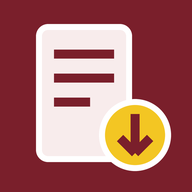
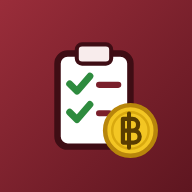
เมนูด้านข้างแบ่งกลุ่ม (สีแดงเลือดหมู) + แถบชื่อหน้า, ไอคอนใหม่ (คลิปบอร์ด+เหรียญ ฿), เปลี่ยนชื่อเมนู, ข้อความท้ายหน้า Developed by Miss Narama Woraklan
Claude-Session: https://claude.ai/code/session_013X8GcPgKu4uhXP4FCWt3wY

diff --git a/index.html b/index.html
@@ -228,6 +228,30 @@ details.rp-x{margin:0 0 10px}details.rp-x>summary{cursor:pointer;color:var(--mut
 .rp-prev{background:color-mix(in srgb,var(--line) 45%,var(--bg));border-radius:14px;padding:16px 10px;overflow:auto}
 @media (max-width:980px){.rp{grid-template-columns:1fr}.rp-nav{position:static;max-height:46vh}}
 @media print{.app-header,main.wrap,#printArea,#modalRoot{zoom:1!important}.rp{display:block}.rp-prev{background:none;padding:0;overflow:visible}}
+/* ---- sidebar layout ---- */
+.menu-tg{flex:none;display:none;background:rgba(255,255,255,.14);border:1px solid rgba(255,255,255,.35);border-radius:10px;width:44px;height:40px;padding:10px;cursor:pointer;flex-direction:column;justify-content:space-between}.menu-tg span{display:block;height:2.5px;border-radius:2px;background:#fff}
+.tab-g{font-family:var(--f-head);font-size:12px;letter-spacing:.03em;color:rgba(255,255,255,.62);padding:14px 12px 4px;white-space:nowrap}
+.pagebar{display:flex;align-items:center;gap:12px;padding:18px 0 14px;margin-bottom:14px;border-bottom:1px solid var(--line)}.pagebar .pi{width:40px;height:40px;border-radius:10px;background:var(--soft);color:var(--tab-on);display:grid;place-items:center;flex:none}.pagebar .pi svg{width:22px;height:22px}
+.pagebar small{display:block;color:var(--muted);font-size:12.5px}.pagebar h2{font-size:21px;color:var(--tab-on);line-height:1.25}
+@media (min-width:1000px){
+ body{display:grid;grid-template-columns:auto minmax(0,1fr);align-items:start;margin:0}.rp{grid-template-columns:270px minmax(0,1fr)}
+ .app-header{position:sticky;top:0;height:calc(100vh / var(--uiz,1.15));overflow-y:auto;width:262px;background:linear-gradient(180deg,var(--brand2),var(--brand) 55%,#5e1620);scrollbar-width:thin;scrollbar-color:rgba(255,255,255,.25) transparent}
+ .app-header>.wrap{max-width:none;padding:18px 12px 14px;display:flex;flex-direction:column;min-height:100%;box-sizing:border-box}
+ .hdr{flex-direction:column;align-items:flex-start;gap:10px;padding:0 4px 6px}.ttl{min-width:0}.ttl h1{font-size:16.5px;line-height:1.35}.ttl p{font-size:11.5px;line-height:1.4}
+ .tabs{flex-direction:column;flex-wrap:nowrap!important;overflow:visible;padding:4px 0 0;gap:2px}
+ .tab{border-radius:10px;padding:9px 12px!important;width:100%;font-size:14.5px;white-space:normal;text-align:left;line-height:1.3}.tab.on{background:var(--bg);color:var(--tab-on)}
+ .app-header .hdr-actions{margin-top:auto;padding-top:16px;border-top:1px solid rgba(255,255,255,.18);flex-direction:column;align-items:stretch;gap:8px}
+ .app-header .hdr-actions>*{justify-content:center;text-align:center}.app-header .hdr-actions .fz{align-self:center}.app-header .chip-off{font-size:12px;border-radius:10px}
+ main.wrap{max-width:none;width:100%;box-sizing:border-box;padding-left:26px;padding-right:26px}
+}
+@media (max-width:999.98px){
+ .menu-tg{display:flex;margin-left:auto}.hdr{flex-wrap:nowrap;padding-block:12px}.ttl{min-width:0}.ttl h1{font-size:15.5px}.ttl p{display:none}.logo{width:42px;height:42px}
+ .app-header .tabs,.app-header .hdr-actions{display:none}
+ body.menu-open .app-header .tabs{display:flex;flex-direction:column;flex-wrap:nowrap;overflow:visible;padding:0 0 8px}body.menu-open .app-header .tab{border-radius:10px;width:100%}
+ body.menu-open .app-header .hdr-actions{display:flex;padding:8px 0 14px;border-top:1px solid rgba(255,255,255,.18)}
+ .pagebar{padding-top:12px}
+}
+@media print{body{display:block!important}.pagebar{display:none!important}}
 .paper.wm::after{content:"ตัวอย่าง";position:absolute;inset:0;display:grid;place-items:center;font-size:120px;font-weight:700;color:rgba(200,0,0,.09);transform:rotate(-28deg);pointer-events:none}
 .paper tr,.paper .calc,.paper .box{break-inside:avoid}
 .paper thead{display:table-header-group}
@@ -353,25 +377,26 @@ body.exec .hdr{padding-bottom:12px}
 <header class="app-header">
   <div class="wrap">
     <div class="hdr">
-      <div class="logo" aria-hidden="true">
-        <svg width="34" height="34" viewBox="0 0 64 64"><rect x="12" y="6" width="34" height="46" rx="4" fill="#f8ecec" stroke="#7a1f2b" stroke-width="3"/><path d="M19 18h20M19 26h20M19 34h12" stroke="#7a1f2b" stroke-width="3" stroke-linecap="round"/><circle cx="45" cy="45" r="13" fill="#f3c623" stroke="#7a1f2b" stroke-width="2.5"/><path d="M45 37v14m-5-5 5 5 5-5" stroke="#7a1f2b" stroke-width="3" fill="none" stroke-linecap="round" stroke-linejoin="round"/></svg>
-      </div>
+      <div class="logo" aria-hidden="true"><svg width="36" height="36" viewBox="0 0 64 64" aria-hidden="true"><rect x="10" y="9" width="36" height="46" rx="5" fill="#fff" stroke="#7a1f2b" stroke-width="3.2"/><rect x="19.5" y="4.5" width="17" height="9.5" rx="2.6" fill="#f8ecec" stroke="#7a1f2b" stroke-width="2"/><path d="M16 24l3.6 3.6 6.4-7.4M16 38l3.6 3.6 6.4-7.4" stroke="#2e8b3e" stroke-width="3.4" fill="none" stroke-linecap="round" stroke-linejoin="round"/><path d="M30.5 24.5h9.5M30.5 38.5h5" stroke="#7a1f2b" stroke-width="3" stroke-linecap="round"/><circle cx="46" cy="47" r="12.5" fill="#f3c623" stroke="#b8860b" stroke-width="2.2"/><circle cx="46" cy="47" r="9" fill="none" stroke="#d9a90f" stroke-width="1.2"/><path d="M42.3 41.3h4.6a2.9 2.9 0 0 1 0 5.8h-4.6zM42.3 47.1h5.3a2.95 2.95 0 0 1 0 5.9h-5.3z" fill="none" stroke="#5a3d00" stroke-width="2.1" stroke-linejoin="round"/><path d="M45.3 38.6v17" stroke="#5a3d00" stroke-width="2" stroke-linecap="round"/></svg></div>
       <div class="ttl">
         <h1>ระบบติดตาม - จัดทำเอกสารงานจ้างก่อสร้าง แขวงทางหลวงกระบี่</h1>
         <p title="ราคาต่อรองตามหนังสือ กวจ. ด่วนที่สุด ที่ กค (กวจ) 0405.3/ว 651 ลงวันที่ 26 กันยายน 2568">Construction Contract Tracking &amp; Documentation System · Krabi Highway District</p>
       </div>
+      <button class="menu-tg" id="menuTg" type="button" aria-label="เปิดเมนู" aria-expanded="false"><span></span><span></span><span></span></button>
+    </div>
+    <nav class="tabs" id="tabs" aria-label="เมนูหลัก"></nav>
       <div class="hdr-actions">
         <button class="btn-lock" id="btnLock" type="button">🔑 ตั้งรหัสผ่าน</button>
         <button class="btn-install" id="btnInstall" type="button">⤓ ติดตั้งแอป</button>
         <span class="fz" role="group" aria-label="ขนาดตัวอักษร"><button type="button" id="fzDn" title="ตัวอักษรเล็กลง">ก−</button><button type="button" id="fzUp" title="ตัวอักษรใหญ่ขึ้น">ก+</button></span>
         <span class="chip-off" id="netChip">ใช้งานออฟไลน์ได้ · ข้อมูลอยู่ในเครื่องนี้</span>
       </div>
-    </div>
-    <nav class="tabs" id="tabs" aria-label="เมนูหลัก"></nav>
+
   </div>
 </header>
 
 <main class="wrap">
+  <div class="pagebar no-print" id="pageBar"></div>
   <section class="view" id="v-dash"></section>
   <section class="view" id="v-prep" hidden></section>
   <section class="view" id="v-req" hidden></section>
@@ -388,7 +413,7 @@ body.exec .hdr{padding-bottom:12px}
   <section class="view" id="v-legal" hidden></section>
   <section class="view" id="v-manual" hidden></section>
   <section class="view" id="v-set" hidden></section>
-  <div class="foot no-print"><div>Thanks to Mr. Tharatep Thongbao for creating the original Bill of Quantities (BOQ) price-reduction system · Concept and further development for end-to-end use by Miss Narama Woraklan (Version <span id="appVer">130</span> · <span id="appDate">23 Oct 2026</span>)</div><div style="margin-top:4px;font-size:12px;line-height:1.6">© 2026 Narama Woraklan · ระบบนี้เป็นทรัพย์สินทางปัญญาของผู้พัฒนา ได้รับความคุ้มครองตามพระราชบัญญัติลิขสิทธิ์ พ.ศ. 2537 · สงวนลิขสิทธิ์ ห้ามทำซ้ำ ดัดแปลง เผยแพร่ หรือนำไปใช้ในเชิงพาณิชย์ ไม่ว่าทั้งหมดหรือบางส่วน โดยไม่ได้รับอนุญาตเป็นลายลักษณ์อักษร<br>This system is the intellectual property of its developers, protected under the Thai Copyright Act B.E. 2537 (1994). All rights reserved. No reproduction, modification, distribution or commercial use, in whole or in part, without prior written permission.</div><div style="margin-top:4px;font-size:12px">ข้อมูลโครงการเก็บในระบบกลาง ใช้ร่วมกันทุกเครื่องที่เข้าสู่ระบบ · ควรสำรองข้อมูลเป็นไฟล์เป็นระยะจากหน้า "ตั้งค่า"</div></div>
+  <div class="foot no-print"><div>Developed by Miss Narama Woraklan · แขวงทางหลวงกระบี่ (Version <span id="appVer">131</span> · <span id="appDate">24 Oct 2026</span>)</div><div style="margin-top:4px;font-size:12px;line-height:1.6">© 2026 Narama Woraklan · ระบบนี้เป็นทรัพย์สินทางปัญญาของผู้พัฒนา ได้รับความคุ้มครองตามพระราชบัญญัติลิขสิทธิ์ พ.ศ. 2537 · สงวนลิขสิทธิ์ ห้ามทำซ้ำ ดัดแปลง เผยแพร่ หรือนำไปใช้ในเชิงพาณิชย์ ไม่ว่าทั้งหมดหรือบางส่วน โดยไม่ได้รับอนุญาตเป็นลายลักษณ์อักษร<br>This system is the intellectual property of its developers, protected under the Thai Copyright Act B.E. 2537 (1994). All rights reserved. No reproduction, modification, distribution or commercial use, in whole or in part, without prior written permission.</div><div style="margin-top:4px;font-size:12px">ข้อมูลโครงการเก็บในระบบกลาง ใช้ร่วมกันทุกเครื่องที่เข้าสู่ระบบ · ควรสำรองข้อมูลเป็นไฟล์เป็นระยะจากหน้า "ตั้งค่า"</div></div>
 </main>
 <div class="toast" id="toast" role="status"></div>
 <div id="modalRoot"></div>
@@ -451,7 +476,7 @@ const ICON={
 };
 
 /* ================= state ================= */
-const APP_VER='130',APP_DATE='23 Oct 2026';/* อัปเดตพร้อม sw.js ทุกครั้งที่ออกเวอร์ชันใหม่ */
+const APP_VER='131',APP_DATE='24 Oct 2026';/* อัปเดตพร้อม sw.js ทุกครั้งที่ออกเวอร์ชันใหม่ */
 const LS='boqNego.v1';
 let syncing=false,syncAgain=false,syncT=null,syncErr='';
 /* ใส่ URL /exec ของเซิร์ฟเวอร์กลางตรงนี้ เพื่อให้ทุกเครื่องที่เปิดแอปต้องเข้าสู่ระบบ (ว่าง = ใช้ค่าที่ตั้งในเครื่อง หรือจากลิงก์ ?server=) */
@@ -639,8 +664,13 @@ function decision(p){
 }
 
 /* ================= tabs ================= */
-const TABS=[['dash','แดชบอร์ด','dash'],['cal','ปฏิทิน','cal'],['prep','ขั้นเตรียมการ','check'],['req','ขออนุมัติซื้อ/จ้าง','doc'],['orders','คำสั่งแต่งตั้ง','users'],['edit','ข้อมูลโครงการ / BOQ','edit'],['bid','ผู้เสนอราคา','users'],['eval','พิจารณาผล','check'],['nego','ต่อรองราคา','nego'],['result','ผลการปรับลดราคา','calc'],['sign','เรียกลงนามสัญญา','sign'],['cert','รับรองผลงาน','award'],['report','รายงาน','print'],['legal','ข้อกฎหมาย','book'],['manual','คู่มือการใช้งาน','doc'],['set','ตั้งค่า','gear']];
-function renderTabs(){$('#tabs').innerHTML=TABS.map(([k,l,i])=>`<button class="tab ${tab===k?'on':''}" data-tab="${k}" type="button">${ICON[i]}<span>${l}</span></button>`).join('')}
+const TABS=[['dash','ภาพรวมโครงการ','dash'],['cal','ปฏิทิน','cal'],['prep','ขั้นเตรียมการ','check'],['req','ขออนุมัติซื้อ/จ้าง','doc'],['orders','คำสั่งแต่งตั้ง','users'],['edit','โครงการและ BOQ','edit'],['bid','ผู้เสนอราคา','users'],['eval','พิจารณาผล','check'],['nego','ต่อรองราคา','nego'],['result','ผลการปรับลดราคา','calc'],['sign','เรียกลงนามสัญญา','sign'],['cert','รับรองผลงาน','award'],['report','รายงาน','print'],['legal','ระเบียบที่เกี่ยวข้อง','book'],['manual','คู่มือการใช้งาน','doc'],['set','ตั้งค่า','gear']];
+const TAB_G=[['ติดตามงาน',['dash','cal']],['เตรียมการและขออนุมัติ',['prep','req','orders','edit']],['พิจารณาผลและต่อรองราคา',['bid','eval','nego','result']],['สัญญา',['sign','cert']],['เอกสารและอื่น ๆ',['report','legal','manual','set']]];
+function renderTabs(){const T=k=>TABS.find(x=>x[0]===k);const btn=([k,l,i])=>`<button class="tab ${tab===k?'on':''}" data-tab="${k}" type="button">${ICON[i]}<span>${l}</span></button>`;const used=new Set(TAB_G.flatMap(g=>g[1]));
+  $('#tabs').innerHTML=TAB_G.map(([g,ks])=>`<div class="tab-g">${g}</div>`+ks.map(T).filter(Boolean).map(btn).join('')).join('')+TABS.filter(x=>!used.has(x[0])).map(btn).join('');
+  const cur=T(tab),grp=(TAB_G.find(g=>g[1].includes(tab))||[''])[0],pb=$('#pageBar');if(pb&&cur)pb.innerHTML=`<span class="pi">${ICON[cur[2]]}</span><div><small>${esc(grp)}</small><h2>${esc(cur[1])}</h2></div>`;
+  document.body.classList.remove('menu-open');const mt=$('#menuTg');if(mt)mt.setAttribute('aria-expanded','false')}
+document.addEventListener('click',e=>{if(e.target.closest('#menuTg')){const o=document.body.classList.toggle('menu-open');e.target.closest('#menuTg').setAttribute('aria-expanded',String(o))}});
 function go(t){if(EXEC&&t!=='cal')t='cal';tab=t;renderTabs();$$('.view').forEach(v=>v.hidden=v.id!=='v-'+t);render();window.scrollTo({top:0})}
 $('#tabs').addEventListener('click',e=>{const b=e.target.closest('[data-tab]');if(b)go(b.dataset.tab)});
 function render(){let nk=0;S.projects.forEach(p=>{if(typeof ensureSaved==='function')ensureSaved(p);if(typeof fixNameKm==='function'&&fixNameKm(p))nk++});if(nk)save();({cal:rCal,dash:rDash,prep:rPrep,req:rReq,orders:rOrders,edit:rEdit,bid:rBid,eval:rEval,nego:rNego,result:rResult,sign:rSignTab,report:rReport,cert:rCert,legal:rLegal,manual:rManual,set:rSet})[tab]();if(typeof stepBar==='function')stepBar()}
@@ -1787,7 +1817,7 @@ function repCertDetail(p){const st=S.settings,c=certOf(p);const rows=certRows(p)
   ${ds.length>1?`<div style="margin-top:6mm;font-weight:600">การส่งมอบและตรวจรับงาน</div><table class="pt" style="margin-top:4px"><thead><tr><th style="width:60px">งวดที่</th><th>วันที่ส่งมอบงาน</th><th>วันที่ตรวจรับงาน</th><th style="width:150px">จำนวนเงิน (บาท)</th></tr></thead><tbody>${ds.map((d,i)=>`<tr><td class="ct">${i+1}${i===ds.length-1?' (สุดท้าย)':''}</td><td class="ct">${D(d.deliver)}</td><td class="ct">${D(d.inspect)}</td><td class="n">${fmt(num(d.amount))}</td></tr>`).join('')}<tr class="tot"><td colspan="3" class="n">รวม</td><td class="n">${fmt(certDelTotal(p))}</td></tr></tbody></table>`:''}
   <div style="margin:16mm 0 0 50%;text-align:center">(${esc(st.director||'..............................')})<br>${esc(st.directorFull||st.directorPos||'')}</div></div>`}
 function repCertAll(p){return repCertLetter(p)+repCert(p)+repCertDetail(p)}
-function rCert(){const el=$('#v-cert');const p=P();if(!p){el.innerHTML='<div class="card"><div class="card-b empty">เลือกโครงการจากแดชบอร์ดก่อน</div></div>';return}
+function rCert(){const el=$('#v-cert');const p=P();if(!p){el.innerHTML='<div class="card"><div class="card-b empty">เลือกโครงการจากภาพรวมโครงการก่อน</div></div>';return}
   const c=certOf(p),{start,end}=certDates(p);const v=certValue(p),dt=certDelTotal(p),amt=certAmount(p),rt=certRowsTotal(p);const rows=certRows(p);
   const F=(k,l,type='text',cls='s3',ph='')=>`<label class="f ${cls}"><span>${l}</span><input class="i" type="${type}" data-ct="${k}" value="${esc(c[k]||'')}" placeholder="${esc(ph)}"></label>`;
   const warn=[];if(!p.contractNo||!p.contractDate)warn.push('ยังไม่มีเลขที่สัญญาหรือวันที่ลงนามสัญญา — กรอกที่หน้าข้อมูลโครงการ');
@@ -1834,7 +1864,7 @@ function rCert(){const el=$('#v-cert');const p=P();if(!p){el.innerHTML='<div cla
   $('#amAdd').onclick=()=>{c.amends.push({});re()};$('#dlAdd').onclick=()=>{c.dels.push({});re()};
   $('#ciReset').onclick=()=>confirmBox('คืนค่าชื่อรายการ ปริมาณ และจำนวนเงินทุกรายการตามแบบแนบท้ายสัญญา และลบรายการที่เพิ่มเอง?','คืนค่า',()=>{c.items={};c.extra=[];re()});
   $('#certPrint').onclick=()=>{reportSel='cert';go('report')}}
-function rSignTab(){const el=$('#v-sign');const p=P();if(!p){el.innerHTML='<div class="card"><div class="card-b empty">เลือกโครงการจากแดชบอร์ดก่อน</div></div>';return}
+function rSignTab(){const el=$('#v-sign');const p=P();if(!p){el.innerHTML='<div class="card"><div class="card-b empty">เลือกโครงการจากภาพรวมโครงการก่อน</div></div>';return}
   el.innerHTML=`<div class="muted" style="font-size:13px;margin:0 0 10px">${esc(p.name||'(ยังไม่ตั้งชื่อ)')} · ${esc(p.contractor||'-')}</div>${signCard(p)}<div style="margin-top:14px">${anxCard(p,['con','condetail'],'เอกสารแนบสัญญา: ผนวก 3 บัญชีรายการก่อสร้าง · รายละเอียดแนบท้ายสัญญา')}</div><div style="margin-top:14px">${conCard(p)}</div>`;bindAnx(el,p);bindCon(el,p);
   {const sg=p.sign||{},ap=p.announceDate?addWorkdays(p.announceDate,7):'';const di=el.querySelector('[data-sg="date"]');
    if(di&&ap&&sg.date&&sg.date<=ap)di.closest('.card-b')?.insertAdjacentHTML('afterbegin',`<div class="s12 note warn" style="margin:0 0 6px">หนังสือเรียกลงนามลงวันที่ ${thDate(sg.date)} ยังอยู่ในระยะอุทธรณ์ (ครบ ${thDate(ap)}) · เรียกลงนามได้ตั้งแต่ ${thDate(addWorkdays(p.announceDate,8))} · การ์ดสรุปภาพรวมจะยังนับโครงการนี้เป็น “ประกาศผู้ชนะแล้ว”</div>`)}
@@ -2019,7 +2049,7 @@ const MAN_FLOW=[
   ['prep','ขั้นเตรียมการ','แนบหนังสือเห็นชอบ เล่มแผน และไฟล์ Excel ราคากลาง (ดึง SUMMARY + ข้อมูลและผลงาน) · ร่าง TOR / ประกาศ / เอกสารประกวดราคา · เอกสารแนบประกาศ (รายละเอียดแนบท้าย, BOQ)'],
   ['req','ขออนุมัติซื้อ/จ้าง','ทำบันทึกรายงานขอซื้อขอจ้าง เลือกอำนาจแขวง/เขตตามวงเงิน ระบบใส่ “เรียน” และวงเงินอำนาจให้'],
   ['orders','คำสั่งแต่งตั้ง','คำสั่งกรรมการ TOR · ราคากลาง · พิจารณาผล · ตรวจรับ/ผู้ควบคุมงาน (รายชื่อดึงจากชีตเดิม เลือกจากดรอปลิสต์ได้)'],
-  ['edit','ข้อมูลโครงการ / BOQ','ข้อมูลโครงการ วงเงิน ราคากลาง วันที่อนุมัติราคากลาง/ร่าง TOR · หมวด Factor F · รายการ BOQ ราคากลาง']]},
+  ['edit','โครงการและ BOQ','ข้อมูลโครงการ วงเงิน ราคากลาง วันที่อนุมัติราคากลาง/ร่าง TOR · หมวด Factor F · รายการ BOQ ราคากลาง']]},
  {ph:'ประกาศและเสนอราคา (ในระบบ e-GP)',c:'b',steps:[
   ['','ประกาศ / ยื่นข้อเสนอ / เปิดซอง','ดำเนินการในระบบ e-GP ตามปกติ แล้วนำผลมากรอกในแท็บถัดไป']]},
  {ph:'หลังเปิดซอง',c:'c',steps:[
@@ -2038,7 +2068,7 @@ function manBookFlow(){const L=(who,c,items)=>`<div class="man-lane man-${c}"><d
   <div class="man-ar side">→</div>${L('บริษัท (ผู้ชนะ)','d',['สแกน QR / เปิดลิงก์','เลือกวันและเวลาลงนาม','กรอกผู้ติดต่อ (อีเมลรับแจ้งผล) และผู้ลงนามในสัญญา','เลือกรูปแบบหลักประกันสัญญา แนบเอกสาร แล้วส่งจอง (กลับมาแนบเอกสารเพิ่มภายหลังด้วยลิงก์เดิมได้)'])}
   <div class="man-ar side">→</div>${L('เจ้าหน้าที่','a',['กด “ดึงข้อมูลการจอง” ตรวจเอกสารที่แนบ','ยืนยันนัด (ใส่เลขที่สัญญาได้) — ระบบส่งอีเมลแจ้งบริษัท','ลงนามสัญญาตามวันนัด · ถ้าต้องเลื่อน กด “ยกเลิก” ให้บริษัทจองใหม่ด้วยลิงก์เดิม'])}</div>`}
 /* กันคำไทยถูกตัดกลางคำ (เบราว์เซอร์ไม่รู้จักคำทับศัพท์/คำประสม) */
-const MAN_NB=['แขวงทางหลวงกระบี่','หัวหน้าเจ้าหน้าที่','หลักประกันการเสนอราคา','หลักประกันสัญญา','ทุนจดทะเบียน','ใบแจ้งปริมาณงานและราคา','เอกสารประกวดราคา','รายละเอียด','แดชบอร์ด','ดรอปลิสต์','หลักประกัน','ตอบกลับ','ผู้ควบคุมงาน','ราคากลาง','ขั้นเตรียมการ','คณะกรรมการ','ผู้เสนอราคา','อัตโนมัติ','เจ้าหน้าที่','ระบบกลาง','อากรแสตมป์','ลงนามสัญญา','ดาวน์โหลด','ข้อมูลและผลงาน','ทุกเครื่อง','ระยะเวลา','หมดอายุ','รีเฟรช','เวอร์ชัน','พิจารณาผล','ต่อรองราคา','ปรับลด','วงเงิน','เลขที่สัญญา','ล่างสุด','ประมาณ','อุทธรณ์','โทรศัพท์','คอมพิวเตอร์','ผู้รับจ้าง','ผู้ยื่นข้อเสนอ','ค่าธรรมเนียม','การไฟฟ้า','รับรองผลงาน','ส่งมอบ','ผู้ดูแล','รหัสผ่าน','ชื่อผู้ใช้','ไฟล์ Excel','ร่าง TOR','ปฏิทิน','คำค้นหา','คำค้น','ซิงก์','ชีตเดิม','แท็บ','ลิงก์','คัดลอก','ยืนยันนัด','ผู้ลงนาม','ตรายาง','บริษัท','ครุภัณฑ์','ค่าใช้จ่ายพิเศษ','สถานะ','ผู้บริหาร','ปัญหา','วิธีแก้'].sort((a,b)=>b.length-a.length);
+const MAN_NB=['แขวงทางหลวงกระบี่','หัวหน้าเจ้าหน้าที่','หลักประกันการเสนอราคา','หลักประกันสัญญา','ทุนจดทะเบียน','ใบแจ้งปริมาณงานและราคา','เอกสารประกวดราคา','รายละเอียด','ภาพรวมโครงการ','ดรอปลิสต์','หลักประกัน','ตอบกลับ','ผู้ควบคุมงาน','ราคากลาง','ขั้นเตรียมการ','คณะกรรมการ','ผู้เสนอราคา','อัตโนมัติ','เจ้าหน้าที่','ระบบกลาง','อากรแสตมป์','ลงนามสัญญา','ดาวน์โหลด','ข้อมูลและผลงาน','ทุกเครื่อง','ระยะเวลา','หมดอายุ','รีเฟรช','เวอร์ชัน','พิจารณาผล','ต่อรองราคา','ปรับลด','วงเงิน','เลขที่สัญญา','ล่างสุด','ประมาณ','อุทธรณ์','โทรศัพท์','คอมพิวเตอร์','ผู้รับจ้าง','ผู้ยื่นข้อเสนอ','ค่าธรรมเนียม','การไฟฟ้า','รับรองผลงาน','ส่งมอบ','ผู้ดูแล','รหัสผ่าน','ชื่อผู้ใช้','ไฟล์ Excel','ร่าง TOR','ปฏิทิน','คำค้นหา','คำค้น','ซิงก์','ชีตเดิม','แท็บ','ลิงก์','คัดลอก','ยืนยันนัด','ผู้ลงนาม','ตรายาง','บริษัท','ครุภัณฑ์','ค่าใช้จ่ายพิเศษ','สถานะ','ผู้บริหาร','ปัญหา','วิธีแก้'].sort((a,b)=>b.length-a.length);
 const MAN_NB_RE=new RegExp('('+MAN_NB.map(x=>x.replace(/[.*+?^${}()|[\]\\]/g,'\\$&')).join('|')+')','g');
 function manNoBreak(root){const w=document.createTreeWalker(root,NodeFilter.SHOW_TEXT,{acceptNode:n=>n.parentElement&&!n.parentElement.closest('.nw,script,style,button')&&MAN_NB_RE.test(n.nodeValue)?(MAN_NB_RE.lastIndex=0,NodeFilter.FILTER_ACCEPT):(MAN_NB_RE.lastIndex=0,NodeFilter.FILTER_REJECT)});
   const L=[];while(w.nextNode())L.push(w.currentNode);
@@ -2050,13 +2080,13 @@ function rManual(){const el=$('#v-manual');const H=(id,t)=>`<h2 id="man-${id}" c
  <ol class="man-toc no-print">${[['flow','ผังการทำงานภาพรวม'],['start','เริ่มต้นใช้งาน'],['steps','ขั้นตอนทีละแท็บ'],['book','ระบบจองวันลงนามสัญญาออนไลน์'],['company','คู่มือฝั่งบริษัท (แนบไปกับหนังสือได้)'],['lock','การบันทึกและล็อกขั้นตอน'],['faq','ปัญหาที่พบบ่อย']].map(([a,t])=>`<li><a href="#man-${a}" data-manjump="${a}">${t}</a></li>`).join('')}</ol>
 
  ${H('flow','1. ผังการทำงานภาพรวม')}
- <p>ทำตามลำดับจากบนลงล่าง แต่ละกล่องคือแท็บในระบบ (กด “เปิด” เพื่อไปยังแท็บนั้น) · แดชบอร์ดและปฏิทินใช้ดูสถานะทุกโครงการ</p>
+ <p>ทำตามลำดับจากบนลงล่าง แต่ละกล่องคือแท็บในระบบ (กด “เปิด” เพื่อไปยังแท็บนั้น) · ภาพรวมโครงการและปฏิทินใช้ดูสถานะทุกโครงการ</p>
  ${manFlowHtml()}
 
  ${H('start','2. เริ่มต้นใช้งาน')}
  <ol class="man-ol">
   <li><b>เข้าสู่ระบบ</b> ด้วยชื่อผู้ใช้และรหัสผ่านที่ผู้ดูแลสร้างให้ ข้อมูลโครงการเก็บที่ระบบกลาง ทุกเครื่องเห็นข้อมูลเดียวกัน</li>
-  <li><b>เลือกโครงการ</b> จากแดชบอร์ด: คลิกชื่อโครงการเพื่อเปิดข้อมูลโครงการ หรือกดรูปดินสอเพื่อเปิด “ขั้นเตรียมการ” · ค้นหาด้วยชื่อ/เลขที่โครงการ/ผู้รับจ้าง/กม. ได้ (ถ้าจำนวนโครงการน้อยกว่าที่ควร ให้ดูว่ามีคำค้นค้างอยู่หรือไม่)</li>
+  <li><b>เลือกโครงการ</b> จากภาพรวมโครงการ: คลิกชื่อโครงการเพื่อเปิดข้อมูลโครงการ หรือกดรูปดินสอเพื่อเปิด “ขั้นเตรียมการ” · ค้นหาด้วยชื่อ/เลขที่โครงการ/ผู้รับจ้าง/กม. ได้ (ถ้าจำนวนโครงการน้อยกว่าที่ควร ให้ดูว่ามีคำค้นค้างอยู่หรือไม่)</li>
   <li><b>ซิงค์จากชีตติดตามเดิม</b> ระบบดึงชื่อโครงการ ID กม. วงเงิน อำนาจ และรายชื่อกรรมการ/ผู้ควบคุมงานให้อัตโนมัติทุก 5 นาที หรือกด “ซิงก์ข้อมูลจากชีตเดิม” ในแท็บคำสั่งแต่งตั้ง · แก้ในชีตเดิมแล้วในระบบเปลี่ยนตาม (ค่าที่ชีตไม่ได้เปลี่ยนจะไม่ทับค่าที่แก้ในระบบ)</li>
   <li><b>ชื่อโครงการ</b> ระบบเติม “ระหว่าง กม. …” จากช่อง กม.ดำเนินการ ให้ (หลังชื่อตอน ก่อน จ./จังหวัด)</li>
   <li><b>เวอร์ชันของระบบ</b> ดูที่บรรทัดล่างสุดของหน้า ถ้ามีการปรับปรุงแล้วยังเห็นเลขเดิม ให้รีเฟรชหน้า หรือรอประมาณ 10 นาที</li>
@@ -2067,7 +2097,7 @@ function rManual(){const el=$('#v-manual');const H=(id,t)=>`<h2 id="man-${id}" c
   <tr><td>ขั้นเตรียมการ</td><td>① แนบหนังสือเห็นชอบ เล่มแผน แบบ · ② กด “แนบไฟล์ Excel และดึงข้อมูล” ระบบอ่านแผ่น SUMMARY (รายการ BOQ ราคากลาง กรรมการราคากลาง) และแผ่น “ข้อมูลและผลงาน” (ระยะเวลา กม. แผนงาน เหตุผลความจำเป็น หมายเหตุ MILLING) พร้อมตรวจรายการสองแผ่นให้ตรงกัน · ③ ตั้งค่า TOR (สาขางาน Plant ค่า K ค่าปรับ รับประกัน) · ④ เลือกหมายเหตุเอกสารแนบ (งานทาง/งานไฟฟ้า ค่าธรรมเนียมการไฟฟ้า MILLING) · วงเงินตั้งแต่ 5 ล้าน ระบบเพิ่มเอกสารกำหนดคะแนนความเสียหายให้เอง</td><td>ร่าง TOR · ร่างประกาศ · ร่างเอกสารประกวดราคา · รายละเอียดแนบท้ายประกาศ · ใบแจ้งปริมาณงานและราคา (พิมพ์/Excel) · เอกสารกำหนดคะแนนความเสียหาย (≥ 5 ล้าน) · เอกสารแนบท้ายเอกสารประกวดราคาทั้งชุด (บทนิยาม แผนการใช้พัสดุ/เหล็ก แผนการทำงาน หนังสือรับรองวงเงินสินเชื่อ ความชำรุดบกพร่อง เอกสารโรงงานผสมแอสฟัลต์ แผ่นป้ายโครงการ+QR)</td></tr>
   <tr><td>ขออนุมัติซื้อ/จ้าง</td><td>เลือกอำนาจ: <b>แขวง</b> → เรียน ผอ.ขท.กระบี่ ผ่านหัวหน้าเจ้าหน้าที่ · <b>เขต</b> (เกิน 10 ล้าน) → เรียน ผส.ทล.17 ผ่านหัวหน้าเจ้าหน้าที่ · กรอกเหตุผล ระยะเวลา และรายการที่ต้องการ</td><td>บันทึกรายงานขอซื้อขอจ้าง</td></tr>
   <tr><td>คำสั่งแต่งตั้ง</td><td>เลือกรายชื่อกรรมการจากดรอปลิสต์ แก้ข้อความในคำสั่งได้ · กรรมการพิจารณาผลแก้ที่นี่แล้วลิงก์ไปการ์ดพิจารณาผล · กรรมการตรวจรับ/ผู้ควบคุมงานดึงจากตาราง ป/ก/ค/ผช ในชีตเดิม · มีคนเปลี่ยนตำแหน่ง กด “อัปเดตตำแหน่งบุคลากร”</td><td>คำสั่ง TOR · ราคากลาง · พิจารณาผล · ตรวจรับ/ผู้ควบคุมงาน · บันทึกมอบหมาย</td></tr>
-  <tr><td>ข้อมูลโครงการ / BOQ</td><td>ตรวจข้อมูลโครงการ วงเงิน ราคากลาง ปร.5 · กรอกวันที่อนุมัติราคากลางและช่วงร่าง TOR · ตั้งหมวดและ Factor F (ครุภัณฑ์ VAT 1.07 และค่าใช้จ่ายพิเศษไม่ถูกปรับลด) · ตรวจรายการ BOQ</td><td>แบบสรุปราคากลาง (ว 651)</td></tr>
+  <tr><td>โครงการและ BOQ</td><td>ตรวจข้อมูลโครงการ วงเงิน ราคากลาง ปร.5 · กรอกวันที่อนุมัติราคากลางและช่วงร่าง TOR · ตั้งหมวดและ Factor F (ครุภัณฑ์ VAT 1.07 และค่าใช้จ่ายพิเศษไม่ถูกปรับลด) · ตรวจรายการ BOQ</td><td>แบบสรุปราคากลาง (ว 651)</td></tr>
   <tr><td>ผู้เสนอราคา</td><td>กรอกผู้ยื่นข้อเสนอและราคา ระบบจัดลำดับ</td><td>—</td></tr>
   <tr><td>พิจารณาผล</td><td>กำหนดการ คณะกรรมการ การประชุม ผลตรวจสอบเอกสาร หลักประกันการเสนอราคา · วงเงินเกินอำนาจแขวง ทำบันทึกขออนุมัติถึงเขต</td><td>เอกสารพิจารณาผล · แบบแจ้งผลผู้เสนอราคา</td></tr>
   <tr><td>ต่อรองราคา</td><td>ตั้งราคาที่จะขอ → เลือกราคาที่ลงตัวที่ระบบแนะนำ → บันทึกครั้งที่ต่อรอง → พิมพ์ส่งผู้เสนอ → บันทึกผลตอบกลับ</td><td>หนังสือขอต่อรองราคา · ใบขอต่อรองราคา</td></tr>
@@ -2105,7 +2135,7 @@ function rManual(){const el=$('#v-manual');const H=(id,t)=>`<h2 id="man-${id}" c
 
  ${H('faq','7. ปัญหาที่พบบ่อย')}
  <table class="man-t"><thead><tr><th style="width:35%">อาการ</th><th>วิธีแก้</th></tr></thead><tbody>
-  <tr><td>แดชบอร์ดแสดงโครงการไม่ครบ</td><td>มีคำค้นค้างอยู่ กด “ล้างคำค้นหา”</td></tr>
+  <tr><td>ภาพรวมโครงการแสดงโครงการไม่ครบ</td><td>มีคำค้นค้างอยู่ กด “ล้างคำค้นหา”</td></tr>
   <tr><td>ข้อมูลในชีตเดิมแก้แล้วยังไม่เปลี่ยน</td><td>กด “ซิงก์ข้อมูลจากชีตเดิม” ในแท็บคำสั่งแต่งตั้ง หรือรอรอบซิงค์อัตโนมัติ 5 นาที</td></tr>
   <tr><td>ช่องกองเก็บ MILLING ว่าง / เป็นค่าเริ่มต้น</td><td>กด “ดึงจาก Excel (เลือกไฟล์)” ในการ์ดเอกสารแนบ แล้วเลือกไฟล์ Excel ราคากลาง</td></tr>
   <tr><td>ตัวเลือกข้อกำหนดมาตรฐานไฟฟ้าขึ้นในงานทาง</td><td>ตั้ง “แบบหมายเหตุ” กลับเป็น อัตโนมัติ แล้วกด “ให้ระบบเลือกตาม BOQ”</td></tr>
@@ -2495,10 +2525,10 @@ function rReq(){const el=$('#v-req');if(needProject(el))return;const p=P();const
   <div class="card"><div class="card-h"><h2>รายการ (ชุดเดียวกับ BOQ)</h2>
     <label class="switch" style="margin-left:auto"><input type="checkbox" id="rqRound" ${R.roundTo==='budget'?'checked':''}> ปรับยอดให้เท่าวงเงินงบประมาณ</label>
     <button class="btn sm" id="rqUseMid" type="button">ใช้ราคากลางต่อหน่วยเป็นราคาประมาณ</button><button class="btn sm" id="rqSum" type="button" title="ไฟล์คำนวณราคากลาง (.xlsm/.xlsx) ที่มีชีต SUMMARY">แนบไฟล์ราคากลาง (SUMMARY)</button><button class="btn ghost-brand sm" id="rqGoBoq" type="button">ไปหน้า BOQ ราคากลาง →</button></div>
-   <div class="card-b muted" style="font-size:13.5px;padding-bottom:0">ชื่อรายการ หน่วย และจำนวน มาจากแท็บ “ข้อมูลโครงการ / BOQ” แก้ที่ใดที่หนึ่งก็เปลี่ยนตรงกัน · กรอกเฉพาะ <b>ราคาที่สืบทราบ/ประมาณได้ ต่อหน่วย</b> ที่นี่ (ราคาก่อนทำราคากลาง)</div>
+   <div class="card-b muted" style="font-size:13.5px;padding-bottom:0">ชื่อรายการ หน่วย และจำนวน มาจากแท็บ “โครงการและ BOQ” แก้ที่ใดที่หนึ่งก็เปลี่ยนตรงกัน · กรอกเฉพาะ <b>ราคาที่สืบทราบ/ประมาณได้ ต่อหน่วย</b> ที่นี่ (ราคาก่อนทำราคากลาง)</div>
    <div class="tbl-wrap"><table class="t dash"><thead><tr><th class="n">ที่</th><th>รายการ</th><th>หน่วย</th><th class="n">จำนวน</th><th class="n">ราคาประมาณ/หน่วย</th><th class="n">รวม</th><th class="n"><a href="#" id="rqGoBoq2" title="แก้ราคากลางที่หน้า BOQ ราคากลาง" style="color:inherit">ราคากลาง/หน่วย ↗</a></th></tr></thead><tbody>
     ${c.rows.length?c.rows.map(x=>`<tr><td class="n">${x.no}</td><td style="min-width:260px">${escBr(x.it.name)}</td><td>${esc(x.it.unit)}</td><td class="n">${fmt(x.q,x.q%1?2:0)}</td>
-      <td class="n"><input class="i r" data-est="${x.it.id}" value="${x.u===null?'':fmt(x.u)}" inputmode="decimal" style="width:140px"></td><td class="n">${x.tot===null?'<span class="muted">-</span>':fmt(x.tot)}</td><td class="n muted">${x.mid?fmt(x.mid):'-'}</td></tr>`).join(''):`<tr><td colspan="7" class="empty">ยังไม่มีรายการ · นำเข้าไฟล์ขออนุมัติซื้อ/จ้าง หรือเพิ่มรายการในแท็บ “ข้อมูลโครงการ / BOQ”</td></tr>`}
+      <td class="n"><input class="i r" data-est="${x.it.id}" value="${x.u===null?'':fmt(x.u)}" inputmode="decimal" style="width:140px"></td><td class="n">${x.tot===null?'<span class="muted">-</span>':fmt(x.tot)}</td><td class="n muted">${x.mid?fmt(x.mid):'-'}</td></tr>`).join(''):`<tr><td colspan="7" class="empty">ยังไม่มีรายการ · นำเข้าไฟล์ขออนุมัติซื้อ/จ้าง หรือเพิ่มรายการในแท็บ “โครงการและ BOQ”</td></tr>`}
     </tbody><tfoot><tr><td></td><td colspan="4"><b>รวมเป็นเงิน</b>${c.missing?` <span class="pill p-nego">ยังไม่กรอกราคา ${c.missing} รายการ</span>`:''}</td><td class="n"><b>${fmt(c.sum)}</b></td><td></td></tr>
      ${R.roundTo==='budget'?`<tr><td></td><td colspan="4">ปรับยอด</td><td class="n">${fmt(c.adj)}</td><td></td></tr><tr><td></td><td colspan="4"><b>รวมเป็นเงินทั้งสิ้น</b></td><td class="n"><b>${fmt(c.grand)}</b></td><td></td></tr>`:''}</tfoot></table></div></div>
   <div class="card"><div class="card-h"><h2>ผู้ลงนามและรหัสบัญชี</h2></div><div class="card-b grid g12">
@@ -3460,7 +3490,7 @@ function planCheck(d,plan){if(!plan||!plan.items)return null;const nz=t=>String(
   return {ok:!W.length,W,n:A.length}}
 
 /* ================= บันทึกรายขั้นตอน: บันทึกแล้วล็อก แก้ไขต้องใส่รหัสผ่าน ================= */
-const STEPS={prep:'ขั้นเตรียมการ',req:'ขออนุมัติซื้อ/จ้าง',orders:'คำสั่งแต่งตั้ง',edit:'ข้อมูลโครงการ / BOQ',bid:'ผู้เสนอราคา',eval:'พิจารณาผล',nego:'ต่อรองราคา',result:'ผลการปรับลดราคา',sign:'เรียกลงนามสัญญา',cert:'รับรองผลงาน'};
+const STEPS={prep:'ขั้นเตรียมการ',req:'ขออนุมัติซื้อ/จ้าง',orders:'คำสั่งแต่งตั้ง',edit:'โครงการและ BOQ',bid:'ผู้เสนอราคา',eval:'พิจารณาผล',nego:'ต่อรองราคา',result:'ผลการปรับลดราคา',sign:'เรียกลงนามสัญญา',cert:'รับรองผลงาน'};
 const stepUnl=new Set();
 function stepHasData(p,t){const has=o=>!!o&&Object.values(o).some(v=>v!==''&&v!=null&&!(Array.isArray(v)&&!v.length)&&!(typeof v==='object'&&!Array.isArray(v)&&!Object.keys(v).length));
   switch(t){case 'prep':return has(p.prep);case 'req':return has(p.req);case 'edit':return !!(p.name||(p.items||[]).length);case 'bid':return !!(p.bidders||[]).length;case 'eval':return has(p.ev);
@@ -3511,7 +3541,7 @@ if(EXEC){document.body.classList.add('exec');const h=$('.hdr .ttl h1');if(h)h.in
 rPrep=(o=>function(){o.apply(this,arguments);stepBar()})(rPrep);rReq=(o=>function(){o.apply(this,arguments);stepBar()})(rReq);rOrders=(o=>function(){o.apply(this,arguments);stepBar()})(rOrders);rEdit=(o=>function(){o.apply(this,arguments);stepBar()})(rEdit);rBid=(o=>function(){o.apply(this,arguments);stepBar()})(rBid);rEval=(o=>function(){o.apply(this,arguments);stepBar()})(rEval);
 rNego=(o=>function(){o.apply(this,arguments);stepBar()})(rNego);rResult=(o=>function(){o.apply(this,arguments);stepBar()})(rResult);rSignTab=(o=>function(){o.apply(this,arguments);stepBar()})(rSignTab);rCert=(o=>function(){o.apply(this,arguments);stepBar()})(rCert);
 
-/* ================= สรุปภาพรวมตามขั้นตอน (แดชบอร์ด + ผู้บริหาร) ================= */
+/* ================= สรุปภาพรวมตามขั้นตอน (ภาพรวมโครงการ + ผู้บริหาร) ================= */
 let ovSel='';
 function projStage(p){const t=todayISO(),e=p.ev||{},sg=p.sign||{},bk=p.book&&p.book.booking;const le=d=>d&&d<=t;
   if(le(p.contractDate)||p.status==='ลงนามสัญญาแล้ว')return 'signed';

diff --git a/sw.js b/sw.js
@@ -1,4 +1,4 @@
-const CACHE='boq-nego-v130';
+const CACHE='boq-nego-v131';
 const SHELL=['./','./index.html','./tor-tpl.js','./contract-tpl.js','./doh-seal.png','./sign-1.png','./sign-2.png','./wplan-1.jpg','./wplan-2.jpg','./wplan-3.jpg','./wplan-4.jpg','./manifest.json','./icon-r192.png','./icon-r512.png','./apple-touch-icon.png'];
 self.addEventListener('install',e=>{e.waitUntil(caches.open(CACHE).then(c=>c.addAll(SHELL.map(u=>new Request(u,{cache:'reload'})))).then(()=>self.skipWaiting()))});
 self.addEventListener('activate',e=>{e.waitUntil(caches.keys().then(ks=>Promise.all(ks.filter(k=>k!==CACHE).map(k=>caches.delete(k)))).then(()=>self.clients.claim()))});

diff --git a/LICENSE.md b/LICENSE.md
@@ -2,11 +2,8 @@
 
 **ระบบติดตาม - จัดทำเอกสารงานจ้างก่อสร้าง แขวงทางหลวงกระบี่ (Construction Contract Tracking & Documentation System · Krabi Highway District)**
 © 2026 Narama Woraklan · สงวนลิขสิทธิ์ (All rights reserved)
-ระบบปรับลดราคาในแบบแสดงรายการ ปริมาณงาน และราคา (BOQ) พัฒนาโดย Mr.Tharatep Thongbao  
-แนวคิดการพัฒนาต่อยอดเพื่อใช้งานให้ครบวงจร โดย นางสาวณรมา วรกลั่น
-
-Thanks to Mr. Tharatep Thongbao for creating the original Bill of Quantities (BOQ) price-reduction system.  
-Concept and further development for end-to-end use by Miss Narama Woraklan.
+พัฒนาโดย นางสาวณรมา วรกลั่น แขวงทางหลวงกระบี่  
+Developed by Miss Narama Woraklan · Krabi Highway District
 
 ระบบนี้ รวมถึงซอร์สโค้ด การออกแบบหน้าจอ แม่แบบเอกสาร และวิธีการคำนวณ เป็นทรัพย์สินทางปัญญาของผู้พัฒนา ได้รับความคุ้มครองตามพระราชบัญญัติลิขสิทธิ์ พ.ศ. 2537
 
@@ -15,7 +12,7 @@ Concept and further development for end-to-end use by Miss Narama Woraklan.
 3. ห้ามนำไปแก้ไข แล้วเผยแพร่หรืออ้างเป็นผลงานในนามผู้อื่น
 4. ซอฟต์แวร์นี้ให้ไว้ "ตามสภาพ" ผู้ใช้ต้องตรวจสอบเอกสารและตัวเลขให้ถูกต้องตามระเบียบก่อนใช้งานจริง
 
-This system, including its source code, interface design, document templates and calculation methods, is the intellectual property of its developers and is protected under the Thai Copyright Act B.E. 2537 (1994). All rights reserved. No reproduction, modification, distribution or commercial use, in whole or in part, without prior written permission.
+This system, including its source code, interface design, document templates and calculation methods, is the intellectual property of its developer and is protected under the Thai Copyright Act B.E. 2537 (1994). All rights reserved. No reproduction, modification, distribution or commercial use, in whole or in part, without prior written permission.
 
 ขออนุญาตใช้งาน ดัดแปลง หรือเผยแพร่: ติดต่อผู้พัฒนา
 
